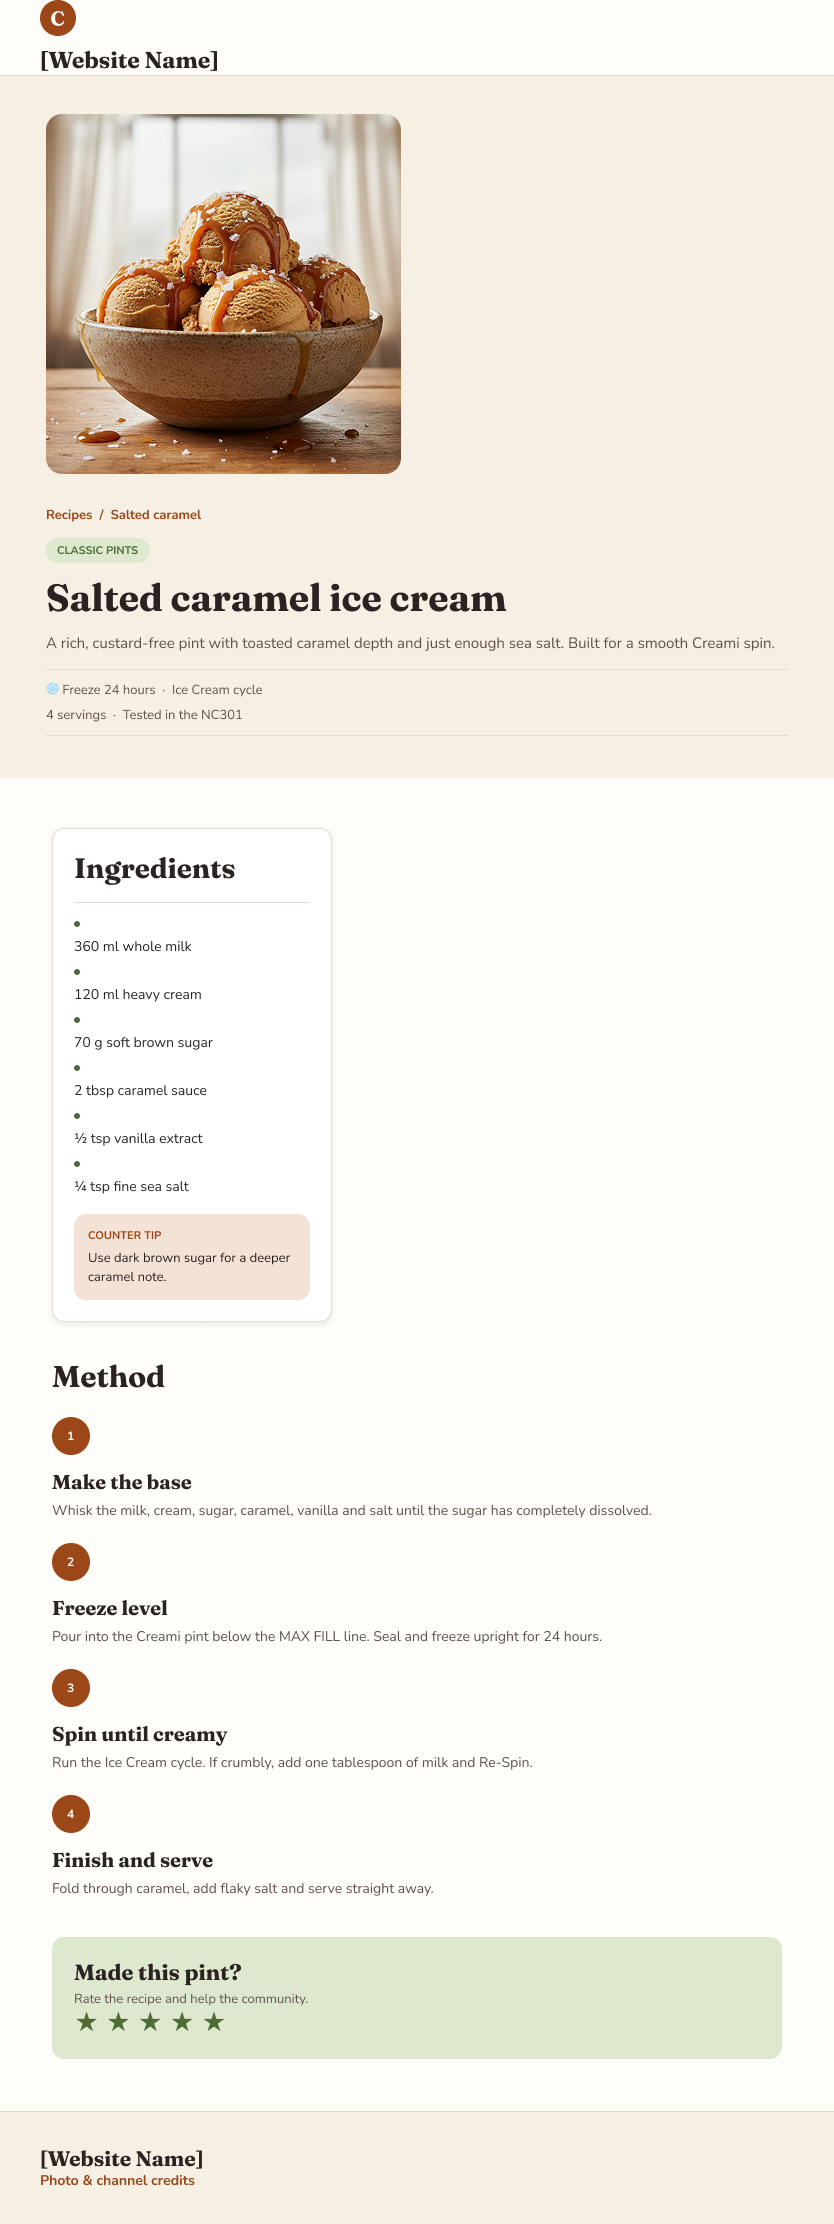
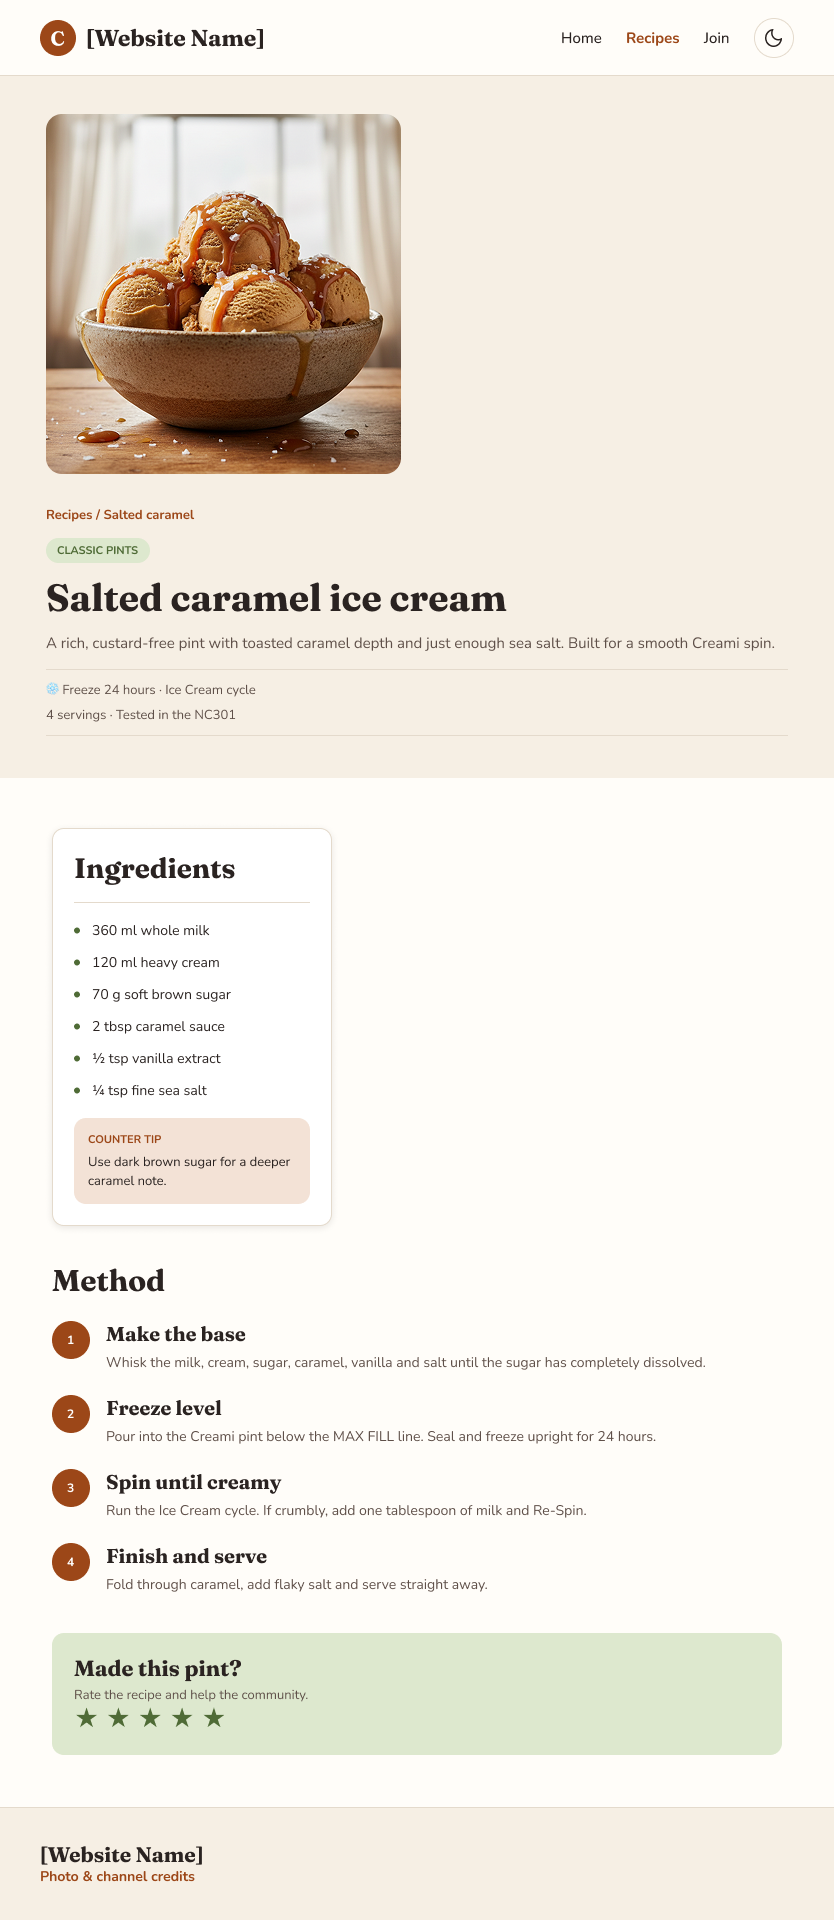
- Added footer - Updated inconsistencies in the figma tablet wireframes - Updated header.html - Updated index.html

diff --git a/index.html b/index.html
@@ -1,23 +1,21 @@
 <!DOCTYPE html>
 <html lang="en">
 <head>
-	<meta charset="UTF-8">
-	<meta name="viewport" content="width=device-width, initial-scale=1.0">
-	<title>The Pint Club</title>
-	<link rel="stylesheet" href="style.css">
-	<link rel="preconnect" href="https://fonts.googleapis.com">
-	<link rel="preconnect" href="https://fonts.gstatic.com" crossorigin>
-	<link href="https://fonts.googleapis.com/css2?family=Fraunces:ital,opsz,wght@0,9..144,100..900;1,9..144,100..900&display=swap" rel="stylesheet">
-	<link href="https://fonts.googleapis.com/css2?family=Bitcount+Prop+Single:wght@100..900&family=Nunito:ital,wght@0,200..1000;1,200..1000&family=Open+Sans:ital,wght@0,300..800;1,300..800&display=swap" rel="stylesheet">
+    <meta charset="UTF-8">
+    <meta name="viewport" content="width=device-width, initial-scale=1.0">
+    <title>The Pint Club</title>
+    <link rel="stylesheet" href="css/style.css">
+    <link rel="preconnect" href="https://fonts.googleapis.com">
+    <link rel="preconnect" href="https://fonts.gstatic.com" crossorigin>
+    <link href="https://fonts.googleapis.com/css2?family=Fraunces:ital,opsz,wght@0,9..144,100..900;1,9..144,100..900&display=swap" rel="stylesheet">
+    <link href="https://fonts.googleapis.com/css2?family=Bitcount+Prop+Single:wght@100..900&family=Nunito:ital,wght@0,200..1000;1,200..1000&family=Open+Sans:ital,wght@0,300..800;1,300..800&display=swap" rel="stylesheet">
 </head>
 <body>
-	<div id="site-header"></div>
-	<main>
-		<h1>
-			The Pint Club
-		</h1>
-	</main>
-	<div id="site-footer"></div>
+    <div id="site-header"></div>
+    <main>
+        <h1 style="font-family: 'Fraunces', Georgia, 'Times New Roman', serif;">The Pint Club</h1>
+    </main>
+    <div id="site-footer"></div>
+    <script src="js/components.js" defer></script>
 </body>
-<script src="script.js"></script>
 </html>

diff --git a/components/header.html b/components/header.html
@@ -1,15 +1,10 @@
-<header>
-  <a href="index.html" aria-label="Go to home page">The Pint Club</a>
-
-  <nav aria-label="Main navigation">
-    <ul>
-      <li><a href="index.html">Home</a></li>
-      <li><a href="recipes.html">Recipes</a></li>
-      <li><a href="join.html">Join</a></li>
-    </ul>
-  </nav>
-
-  <span id="profileSlot" aria-label="Profile slot"></span>
-
-  <button id="themeToggle" type="button" aria-pressed="false">Toggle theme</button>
+<header class="site-header">
+  <div class="container header-inner">
+    <a href="index.html" class="brand" aria-label="The Pint Club home">The Pint Club</a>
+    <nav class="main-nav" aria-label="Main navigation">
+      <a href="index.html">Home</a>
+      <a href="recipes.html">Recipes</a>
+      <a href="join.html">Join</a>
+    </nav>
+  </div>
 </header>

diff --git a/components/footer.html b/components/footer.html
@@ -1,0 +1,11 @@
+<footer class="site-footer">
+  <div class="container footer-inner">
+    <p>&copy; 2026 The Pint Club</p>
+    <p>Fan project, not affiliated with SharkNinja</p>
+    <nav class="footer-nav" aria-label="Footer navigation">
+      <a href="index.html">Home</a>
+      <a href="recipes.html">Recipes</a>
+      <a href="join.html">Join</a>
+    </nav>
+  </div>
+</footer>
